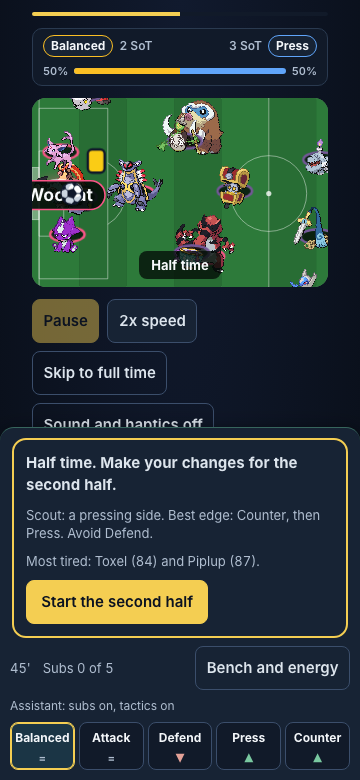
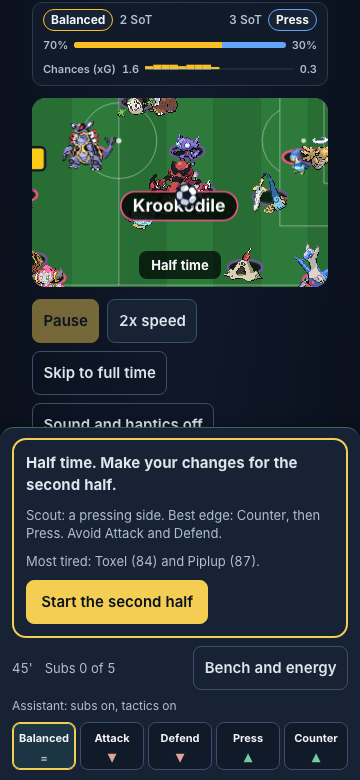
chore(reports): refresh 360px matchday screenshots and gif (Green) (#176)
Re-shoot 360 px mobile matchday screenshots and animated GIF in docs/reports/manager-mode/ from live production at acdd8f00 on engine 8 with token 8. Record PR #175 merge in STATE.md.

diff --git a/STATE.md b/STATE.md
@@ -3,6 +3,21 @@
 Measured ground truth. Each PR's section cites its reviewed head and the gates run there; the merge
 and its squash SHA are recorded in the next PR's STATE update.
 
+## Matchday screenshots and GIF refresh
+
+Branch `chore/screenshots-refresh` off `origin/main` at `acdd8f00`. Wave 7 row 7x (Green). The first commit records the PR #175 merge.
+
+- Refreshed 360 px mobile matchday screenshots in `docs/reports/manager-mode/` from live production (`https://pokedraft-woad.vercel.app`) at `acdd8f00` on engine 8 with token version 8:
+  - `prematch-360.png`: pre-match card (360x1566 full-page) with scout line and badged starting tactics.
+  - `touchline-kickoff-360.png`: paused at minute 3 with collapsed sheet (360x780 viewport).
+  - `touchline-stop-360.png`: half-time stop at 45' (360x780 viewport) with scout line and fatigue line in the sheet.
+  - `live-match-move-callout.gif`: 7 s cut at 8 fps (360x780) from a Playwright video ending 2.5 s after the first move badge ("Shuppet used Phantom Force!").
+- Gates at branch HEAD: `pnpm format:check`, `pnpm check:dashes`, `pnpm check:mirrors`.
+- Decision log: `docs/decisions/screenshots-refresh.md`.
+- NOT RUN: UI code changes (assets and docs only), owner physical device check.
+
+Merge status, the squash SHA and the reviewer receipt go into the next STATE update.
+
 ## Species chunk split
 
 Branch `feat/species-chunk-split` off `origin/main` at `b823acff`. Wave 7 row 7sp (Red). The first commit (`25c8817d`) records the PR #174 merge. RED commit `80472c2d` adds failing guards for species chunk split and slim index (4 tests in `src/data/__tests__/species-index.test.ts` and 30 tests in `scripts/data/validate-artifacts.test.ts` failing on missing `species-index.json`).
@@ -18,7 +33,7 @@ Branch `feat/species-chunk-split` off `origin/main` at `b823acff`. Wave 7 row 7s
 - Decision log: `docs/decisions/species-chunk-split.md`.
 - NOT RUN: Owner physical device test; live checks (run post-merge).
 
-Merge status, the squash SHA and the reviewer receipt go into the next STATE update.
+Merged in PR #175 (squash `acdd8f00`). GLM 5.3 Flash (canary `7sp-r2-320db9616fcd6392e47fb7b80501f64a`) and independent Red reviewer approved head `edef5111`. Production serves `acdd8f00` (engine 8, token versions 1 to 8, db ok). Gated live checks 35 passed on Chromium through gate.
 
 ## Flip to engine 8
 

diff --git a/docs/decisions/screenshots-refresh.md b/docs/decisions/screenshots-refresh.md
@@ -1,0 +1,26 @@
+# Matchday screenshots and GIF refresh (row 7x, Green)
+
+Branch `chore/screenshots-refresh` off `origin/main` at `acdd8f00`. Wave 7 row 7x (Green).
+
+## Scope
+
+Re-shoot the 360 px matchday screenshots and animated GIF in `docs/reports/manager-mode/` from live production (`https://pokedraft-woad.vercel.app`) at `acdd8f00` after the engine 8 flip (PR #174) and species chunk split (PR #175). No product runtime code changes.
+
+## Refreshed evidence
+
+Captured in headless Chromium at 360x780 viewport with mobile touch emulation against live production:
+- `docs/reports/manager-mode/prematch-360.png`: full-page capture of pre-match card (360x1566) showing scout line and badged starting tactics.
+- `docs/reports/manager-mode/touchline-kickoff-360.png`: single-screen viewport capture (360x780) at minute 3 with collapsed sheet and pitch controls.
+- `docs/reports/manager-mode/touchline-stop-360.png`: single-screen viewport capture (360x780) at half-time stop (45') with scout line and fatigue line.
+- `docs/reports/manager-mode/live-match-move-callout.gif`: 7-second animated GIF cut at 8 fps (360x780) from a Playwright-recorded video using ffmpeg palette generation, ending 2.5 seconds after the first move callout ("Shuppet used Phantom Force!").
+
+## Gates run
+
+- `pnpm format:check`
+- `pnpm check:dashes`
+- `pnpm check:mirrors`
+
+## NOT RUN
+
+- Unit tests and full e2e suite locally (no code in `src/` or `e2e/` changed; CI runs them).
+- Physical phone check (owner action).
